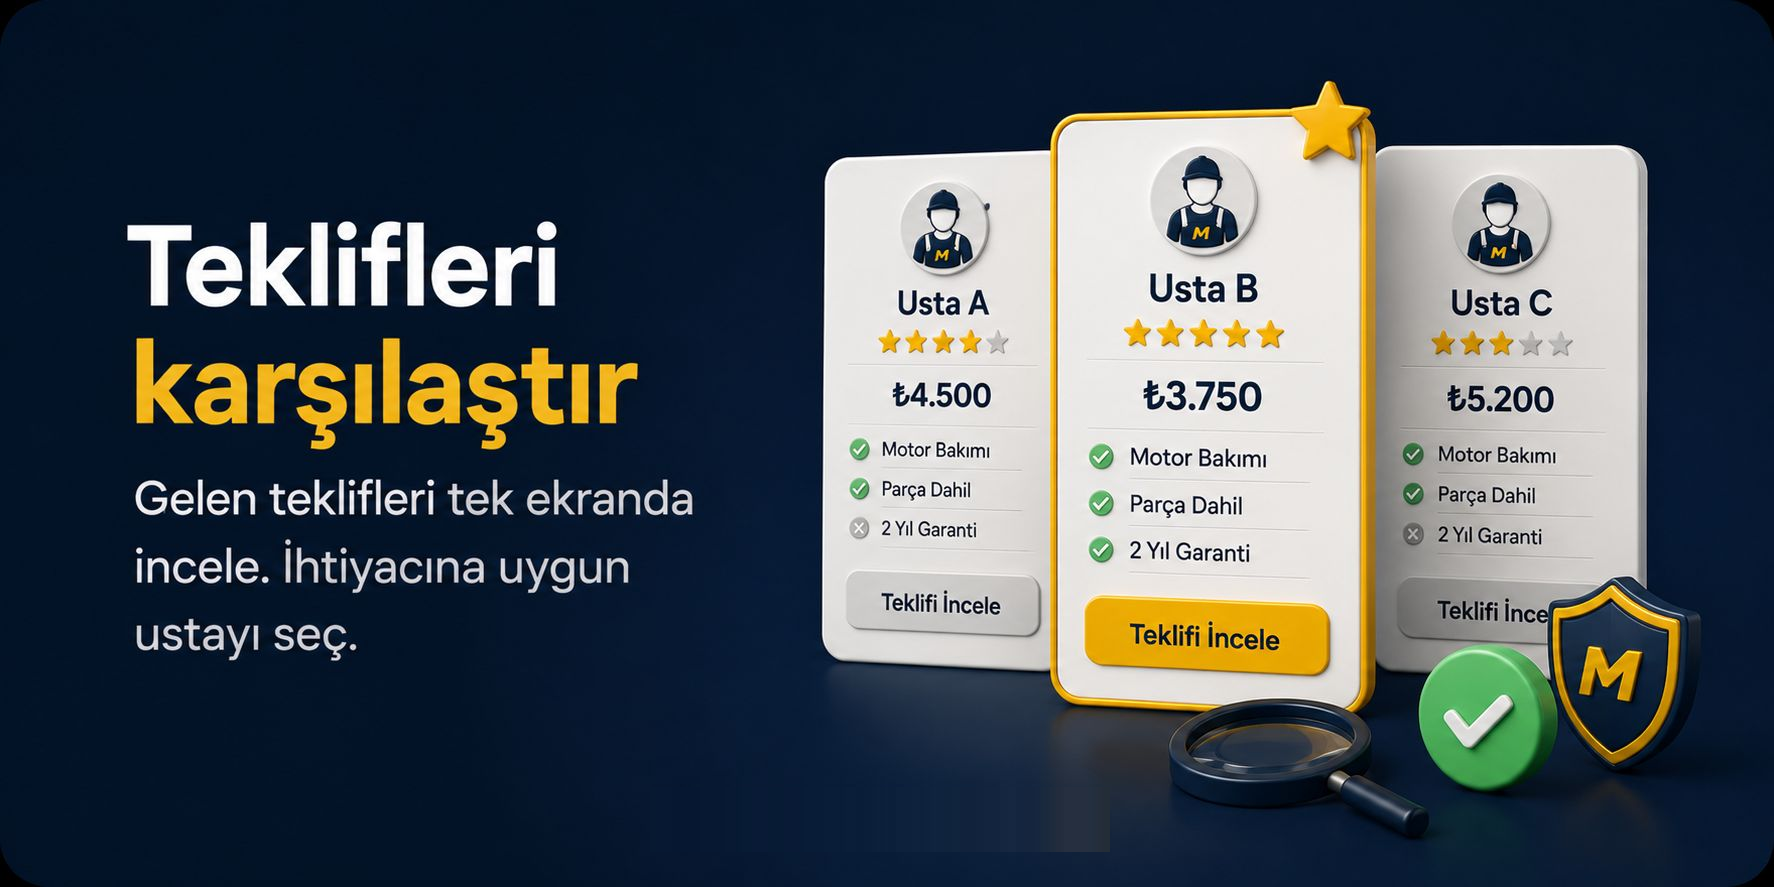
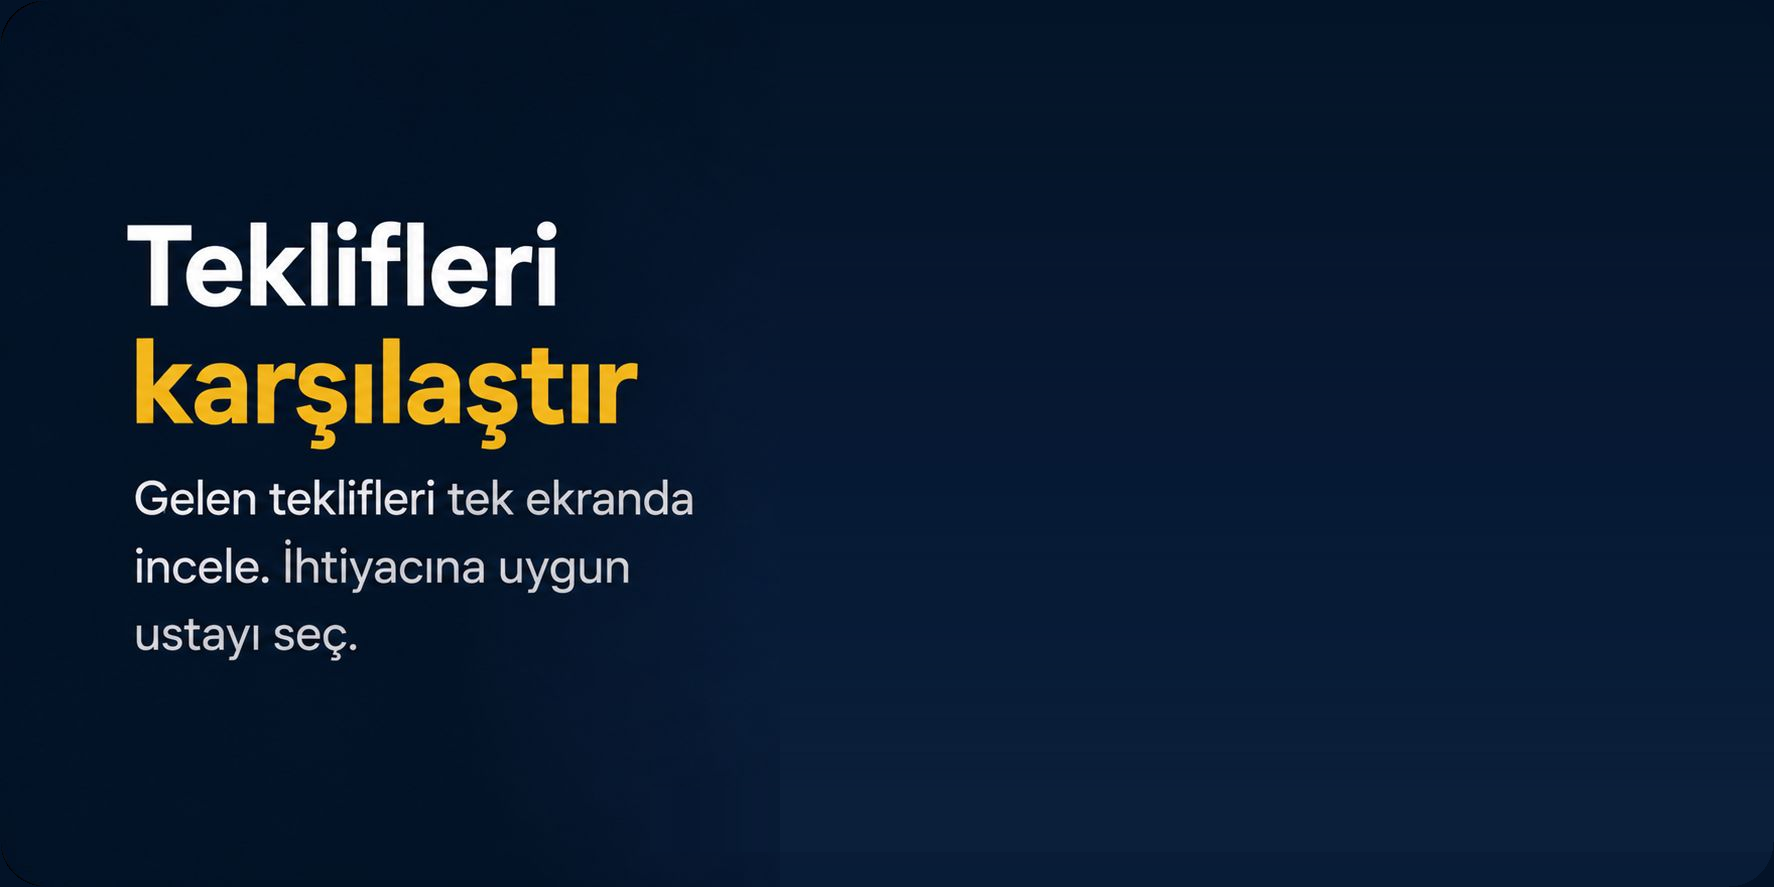
Kampanya kartlarinin sagindaki objeyi hafifce hareketlendir
Her banner gorseli ikiye ayrildi: sol taraf (baslik/alt yazi, sabit
banner) ve sag taraftaki 3B obje ayri, seffaf arka planli bir katman
olarak cikarildi. Obje, banner'in tam ustune orijinal konumunda
bindiriliyor ve hafif bir "nefes alma" (kucuk olcek + dikey sallanma)
animasyonuyla hareketleniyor; yazi hicbir zaman hareket etmiyor.

Kesim/birlestirme noktasinda gorunur bir sinir kalmamasi icin, obje
kaldirilan bolgenin arka plani her satir icin ayri ayri (o satirdaki
gercek zemin rengiyle) dolduruldu — bu, gorsellerdeki hafif isik
degisimini (vinyet) de koruyor.

Claude-Session: https://claude.ai/code/session_01XStbwL6Vr4wVqGDLyMLQ5F

diff --git a/src/screens/home/HomeScreen.tsx b/src/screens/home/HomeScreen.tsx
@@ -1,5 +1,5 @@
 import { useCallback, useEffect, useRef, useState } from "react";
-import { ScrollView, FlatList, View, Image, StyleSheet, RefreshControl, useWindowDimensions } from "react-native";
+import { ScrollView, FlatList, View, Image, StyleSheet, RefreshControl, Animated, Easing, useWindowDimensions } from "react-native";
 import type { ImageSourcePropType } from "react-native";
 import { useFocusEffect } from "@react-navigation/native";
 import { useSafeAreaInsets } from "react-native-safe-area-context";
@@ -47,18 +47,51 @@ const QUICK_ACTION_ICON = {
 type PromoBanner = {
   key: string;
   source: ImageSourcePropType;
+  objectSource: ImageSourcePropType;
+  objectRelX: number;
+  objectRelWidth: number;
   onPress: () => void;
 };
 
-/** Basliklari, alt yaziyi ve gorseli tek parca iceren hazir banner kartlari. */
+/**
+ * Basliklari ve alt yaziyi iceren sabit banner (source) + saginda ayri
+ * bir katman olarak hareketlendirilen obje gorseli (objectSource).
+ * objectRelX/objectRelWidth, objenin banner icindeki oranli (0-1)
+ * konumunu ve genisligini belirtir (1774px kaynak genislige gore).
+ */
 const PROMO_BANNER_ASPECT = 1774 / 887;
 
 const PROMO_IMAGE = {
-  calendar: require("../../../assets/promo-icons/promo-calendar.png"),
-  support: require("../../../assets/promo-icons/promo-support.png"),
-  craftsmen: require("../../../assets/promo-icons/promo-craftsmen.png"),
-  boat: require("../../../assets/promo-icons/promo-boat.png"),
-  offers: require("../../../assets/promo-icons/promo-offers.png"),
+  calendar: {
+    source: require("../../../assets/promo-icons/promo-calendar.png"),
+    objectSource: require("../../../assets/promo-icons/promo-calendar-object.png"),
+    objectRelX: 850 / 1774,
+    objectRelWidth: 924 / 1774,
+  },
+  support: {
+    source: require("../../../assets/promo-icons/promo-support.png"),
+    objectSource: require("../../../assets/promo-icons/promo-support-object.png"),
+    objectRelX: 750 / 1774,
+    objectRelWidth: 1024 / 1774,
+  },
+  craftsmen: {
+    source: require("../../../assets/promo-icons/promo-craftsmen.png"),
+    objectSource: require("../../../assets/promo-icons/promo-craftsmen-object.png"),
+    objectRelX: 900 / 1774,
+    objectRelWidth: 874 / 1774,
+  },
+  boat: {
+    source: require("../../../assets/promo-icons/promo-boat.png"),
+    objectSource: require("../../../assets/promo-icons/promo-boat-object.png"),
+    objectRelX: 700 / 1774,
+    objectRelWidth: 1074 / 1774,
+  },
+  offers: {
+    source: require("../../../assets/promo-icons/promo-offers.png"),
+    objectSource: require("../../../assets/promo-icons/promo-offers-object.png"),
+    objectRelX: 780 / 1774,
+    objectRelWidth: 994 / 1774,
+  },
 } as const;
 
 export function HomeScreen({ navigation }: Props) {
@@ -119,27 +152,27 @@ export function HomeScreen({ navigation }: Props) {
   const promoBanners: PromoBanner[] = [
     {
       key: "promo-calendar",
-      source: PROMO_IMAGE.calendar,
+      ...PROMO_IMAGE.calendar,
       onPress: () => (boat ? navigation.navigate("BoatDetail", { boatId: boat.id }) : navigation.navigate("AddBoat")),
     },
     {
       key: "promo-support",
-      source: PROMO_IMAGE.support,
+      ...PROMO_IMAGE.support,
       onPress: () => navigation.navigate("CraftsmanList"),
     },
     {
       key: "promo-craftsmen",
-      source: PROMO_IMAGE.craftsmen,
+      ...PROMO_IMAGE.craftsmen,
       onPress: () => navigation.navigate("CraftsmanList"),
     },
     {
       key: "promo-boat",
-      source: PROMO_IMAGE.boat,
+      ...PROMO_IMAGE.boat,
       onPress: () => (boat ? navigation.navigate("BoatDetail", { boatId: boat.id }) : navigation.navigate("AddBoat")),
     },
     {
       key: "promo-offers",
-      source: PROMO_IMAGE.offers,
+      ...PROMO_IMAGE.offers,
       onPress: () => navigation.navigate("ServiceRequests"),
     },
   ];
@@ -397,11 +430,7 @@ function PromoBannerCarousel({ banners, theme }: { banners: PromoBanner[]; theme
         }}
         renderItem={({ item }) => (
           <Touchable onPress={item.onPress} haptic scaleTo={0.99} style={{ width: cardWidth }}>
-            <Image
-              source={item.source}
-              style={{ width: cardWidth, height: cardWidth / PROMO_BANNER_ASPECT }}
-              resizeMode="contain"
-            />
+            <PromoImage banner={item} cardWidth={cardWidth} />
           </Touchable>
         )}
       />
@@ -415,6 +444,48 @@ function PromoBannerCarousel({ banners, theme }: { banners: PromoBanner[]; theme
           ))}
         </View>
       ) : null}
+    </View>
+  );
+}
+
+/**
+ * Sabit banner (baslik + alt yazi) uzerine, saginda ayri bir katman
+ * olarak hafifce "nefes alan" (kucuk olcek + dikey sallanma) obje
+ * gorseli bindiriliyor. Yazi hicbir zaman hareket etmiyor.
+ */
+function PromoImage({ banner, cardWidth }: { banner: PromoBanner; cardWidth: number }) {
+  const cardHeight = cardWidth / PROMO_BANNER_ASPECT;
+  const pulse = useRef(new Animated.Value(0)).current;
+
+  useEffect(() => {
+    const loop = Animated.loop(
+      Animated.sequence([
+        Animated.timing(pulse, { toValue: 1, duration: 1800, easing: Easing.inOut(Easing.sin), useNativeDriver: true }),
+        Animated.timing(pulse, { toValue: 0, duration: 1800, easing: Easing.inOut(Easing.sin), useNativeDriver: true }),
+      ])
+    );
+    loop.start();
+    return () => loop.stop();
+  }, [pulse]);
+
+  const scale = pulse.interpolate({ inputRange: [0, 1], outputRange: [1, 1.035] });
+  const translateY = pulse.interpolate({ inputRange: [0, 1], outputRange: [0, -5] });
+
+  return (
+    <View style={{ width: cardWidth, height: cardHeight }}>
+      <Image source={banner.source} style={{ width: cardWidth, height: cardHeight }} resizeMode="contain" />
+      <Animated.Image
+        source={banner.objectSource}
+        style={{
+          position: "absolute",
+          left: banner.objectRelX * cardWidth,
+          top: 0,
+          width: banner.objectRelWidth * cardWidth,
+          height: cardHeight,
+          transform: [{ scale }, { translateY }],
+        }}
+        resizeMode="contain"
+      />
     </View>
   );
 }
